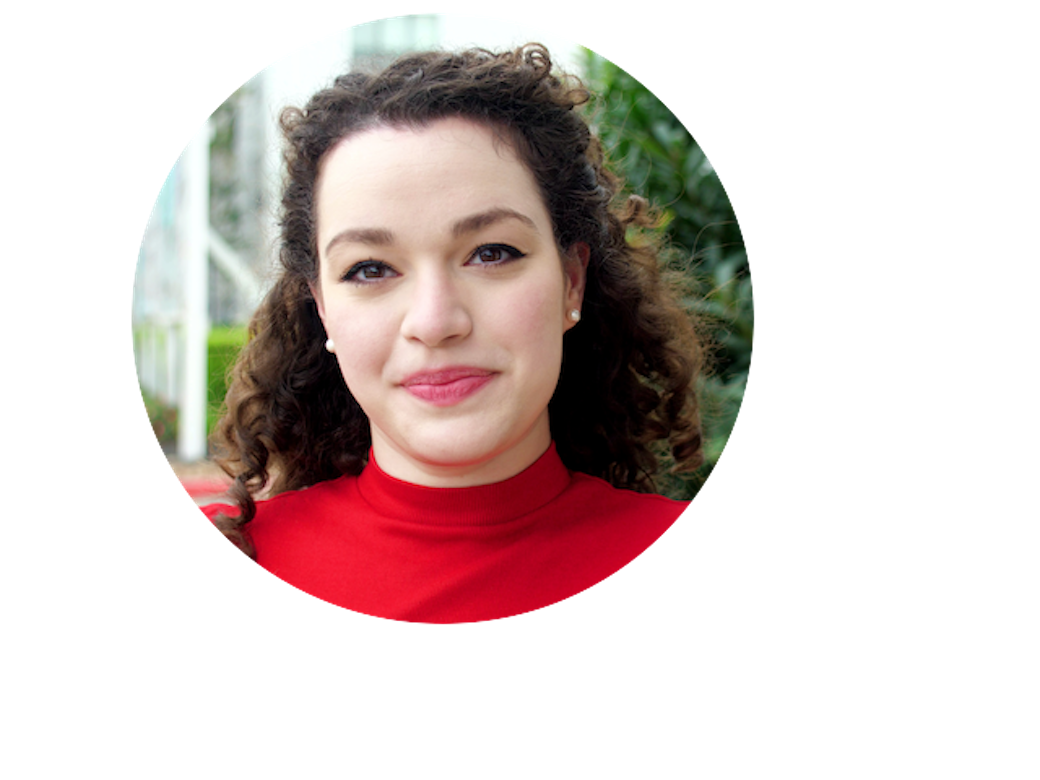
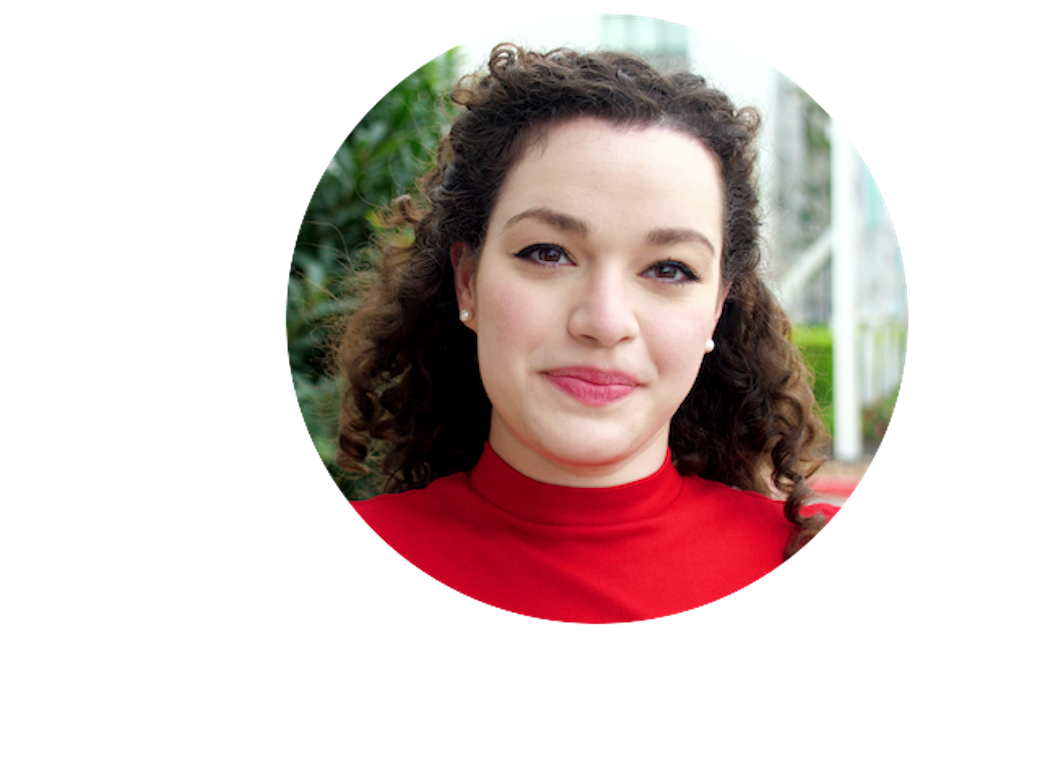
flipped image to tilt the same way as hello

diff --git a/src/components/pages/Resume.js b/src/components/pages/Resume.js
@@ -4,7 +4,6 @@ import gradcap from './gradcap.png';
 import code from './codeblocks.png'; 
 import volicon from './volunteericon.png'; 
 import workicon from './workicon.png'; 
-import download from './download.png';
 
 
 function Resume() {
@@ -27,19 +26,22 @@ function Resume() {
         <h1>At <span>・</span> A <span>・</span> Glance</h1>
         <div className='glance'>
         <img src={gradcap} /> B.A. & B.S. Fordham University <br/>
-        <img src={code} />
-           {/* <h3>Front End</h3>
+        <img src={code} />Coding Bootcamp at Rice University <span className='shortlistlink'> ✳see <a href='#theshortlist'>The Short List</a>✳</span><br/>
+        <img src={volicon} /> EMT, Tutor, & Theatrical Outreach  <br/>
+        <img src={workicon} /> Medical Examiner, Literary Intern, & Nurse's Aid<br/>
+        </div>
+        <div id='theshortlist'>
+        <h2>The Short List</h2>
+        <h3>Front End</h3>
             <ul>
                 <li>{getFEList}</li>
             </ul>
             <h3>Back End</h3>
             <ul>
                 <li>{getBEList}</li>
-            </ul> */} <br/>
-        <img src={volicon} /> EMT, Tutor, & Theatrical Outreach  <br/>
-        <img src={workicon} /> Medical Examiner, Literary Intern, & Nurse's Aid<br/>
-        </div>
+            </ul> 
         </div> 
+        </div>
     )
 }
 

diff --git a/src/components/Footer.js b/src/components/Footer.js
@@ -1,21 +1,20 @@
 import React from 'react';
 import './Footer.css';
+import github from './pages/githubicon.png';
+import linkedin from './pages/linkedinicon.png'; 
+import instagram from './pages/instagramicon.png';
 
 function Footer() {
     return (
-            <div className='footer'>
-                <style>
+<div className='footer'>
+ <style>
 @import url('https://fonts.googleapis.com/css2?family=Abril+Fatface&family=Lato:wght@300&family=League+Script&family=Playfair+Display:wght@900&display=swap');
 </style>
-                
-                        <a href="https://github.com/emsaw721">GitHub</a>
-                   
-                        <a href="#linkedin">LinkedIn</a>
-                 
-                        <a href="#instagram">Instagram</a>
-              
-            </div>
-    )
+<a href="https://github.com/emsaw721"><img src={github}/></a>
+<a href="https://linkedin.com/in/emily-hill-95a545241"><img src={linkedin}/></a>
+<a href="#instagram"><img src={instagram}/></a>
+</div>
+)
 }
 
 export default Footer; 

diff --git a/src/components/pages/Resume.css b/src/components/pages/Resume.css
@@ -19,7 +19,6 @@
     margin-top: 5%;
     margin-bottom: 5%; 
     font-size: 5em; 
-    margin-left: 5%; 
     text-shadow: var(--quaternary-color) 2px 5px; 
   }
 
@@ -32,6 +31,20 @@
     font-family: Lato; 
     font-size: 2em; 
     color: var(--tertiary-color); 
+    margin-top: 5em;
+    margin-bottom: 5em;
+  }
+
+  .shortlistlink {
+    text-decoration: none; 
+    color: var(--tertiary-color);
+    font-size: 0.7em; 
+    font-family: Lato; 
+    margin-left: 5%; 
+  }
+
+  .shortlistlink a {
+    text-decoration: none;
   }
 
   .resumecontent h3 {

diff --git a/src/components/Footer.css b/src/components/Footer.css
@@ -10,7 +10,7 @@
 .footer {
     display: flex; 
     justify-content: space-evenly; 
-    margin: 5%; 
+    margin-top: 10%; 
     font-family: Lato; 
     font-size: 1.5em; 
     font-weight: bold; 

diff --git a/src/components/pages/Home.css b/src/components/pages/Home.css
@@ -28,7 +28,7 @@
 .homeimg {
   width: 400px;
   height: 400px; 
-  margin-left: 20%;
+  margin-left: 15%;
   margin-top: 5%; 
   opacity: 0.5; 
 }
